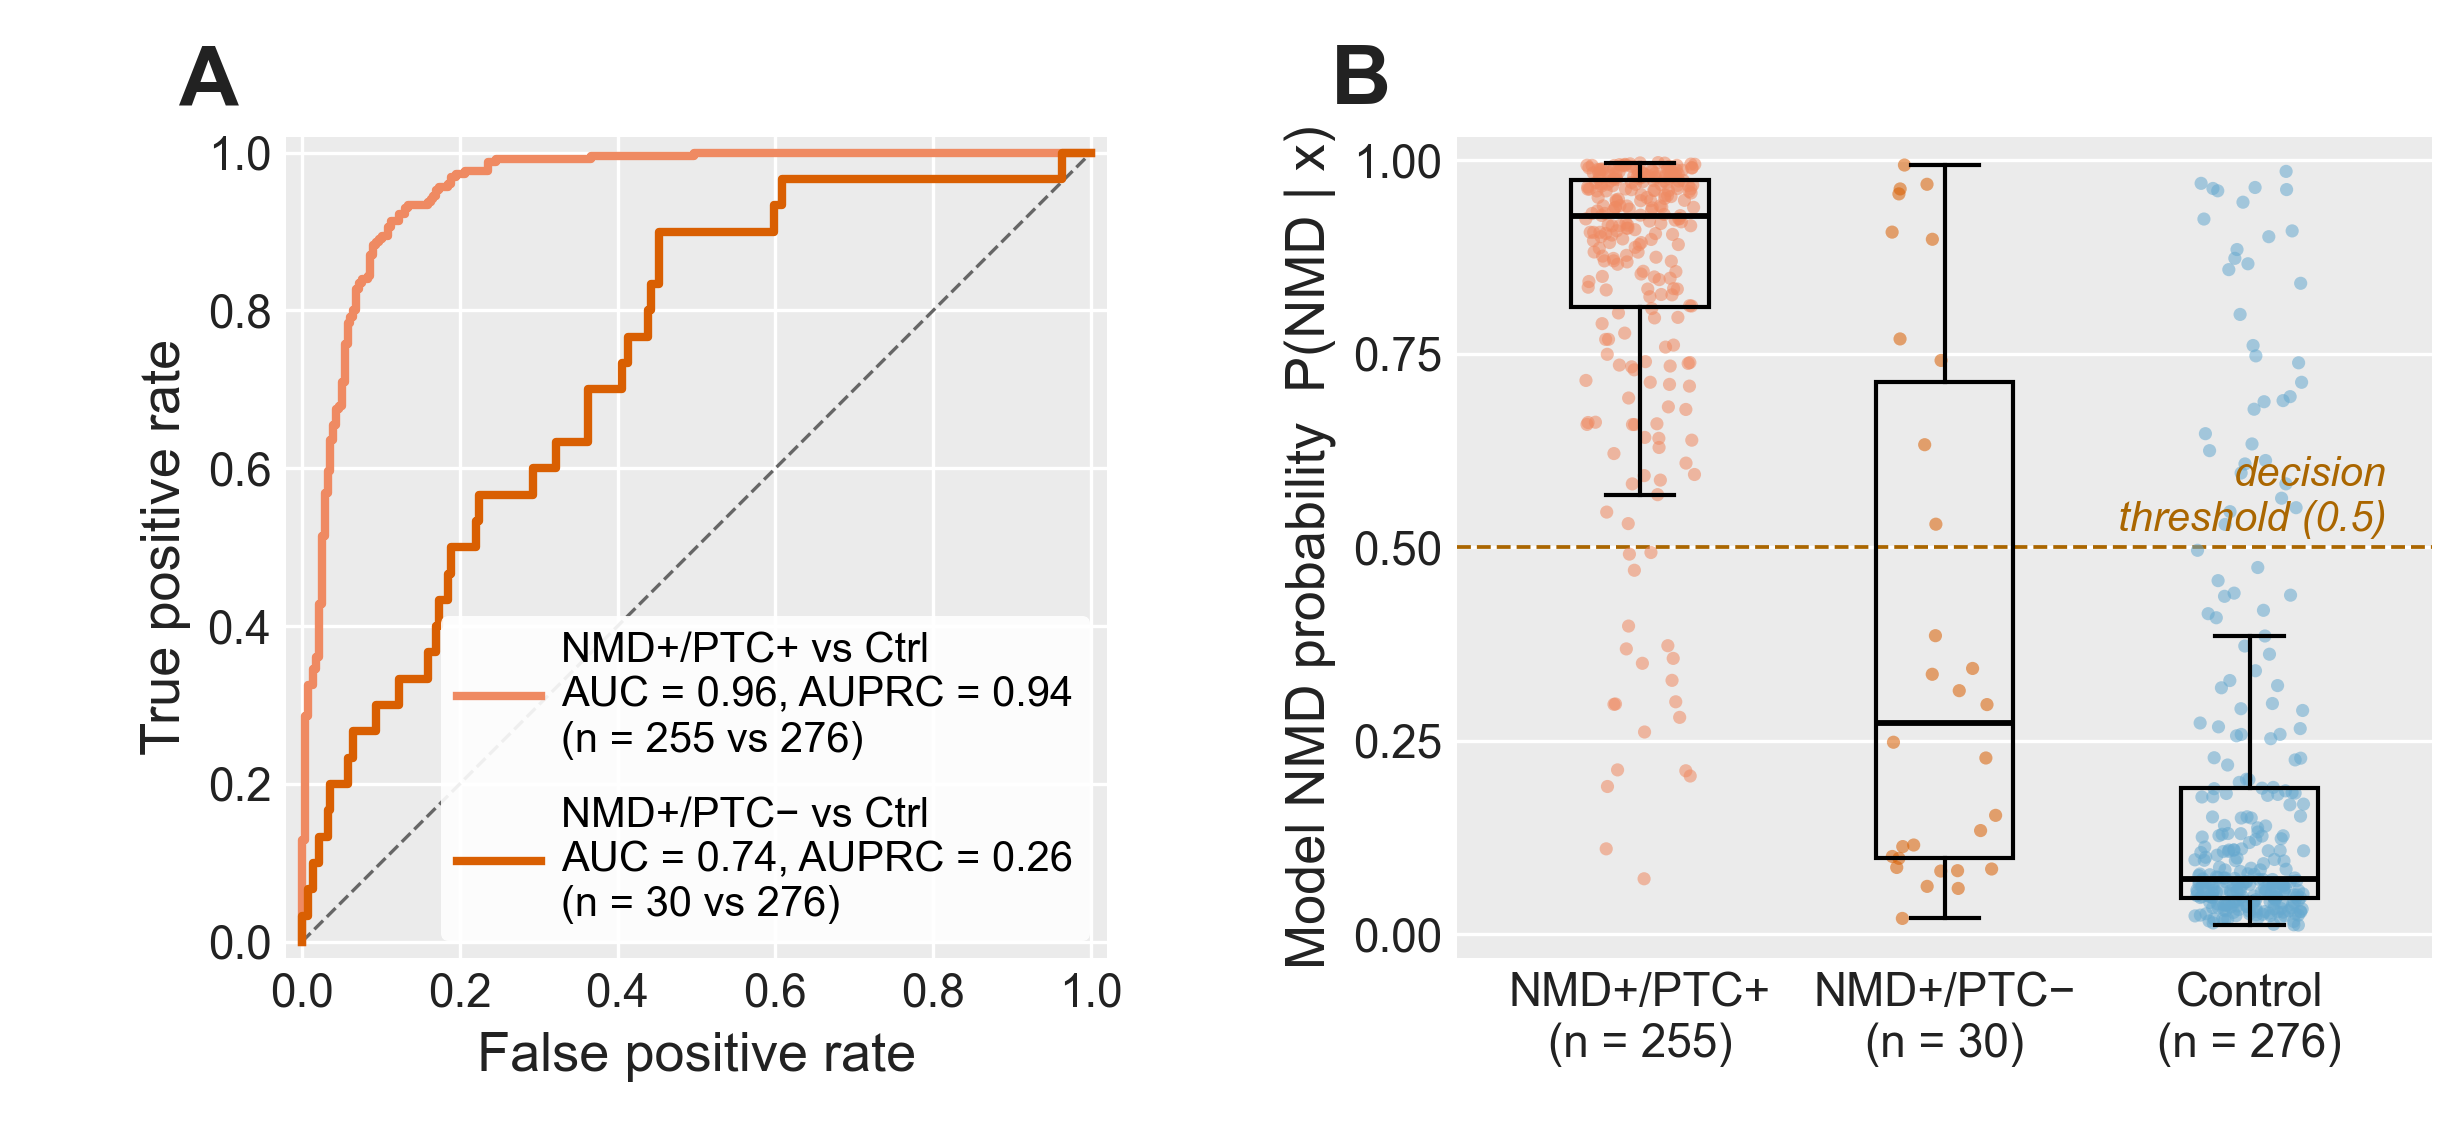
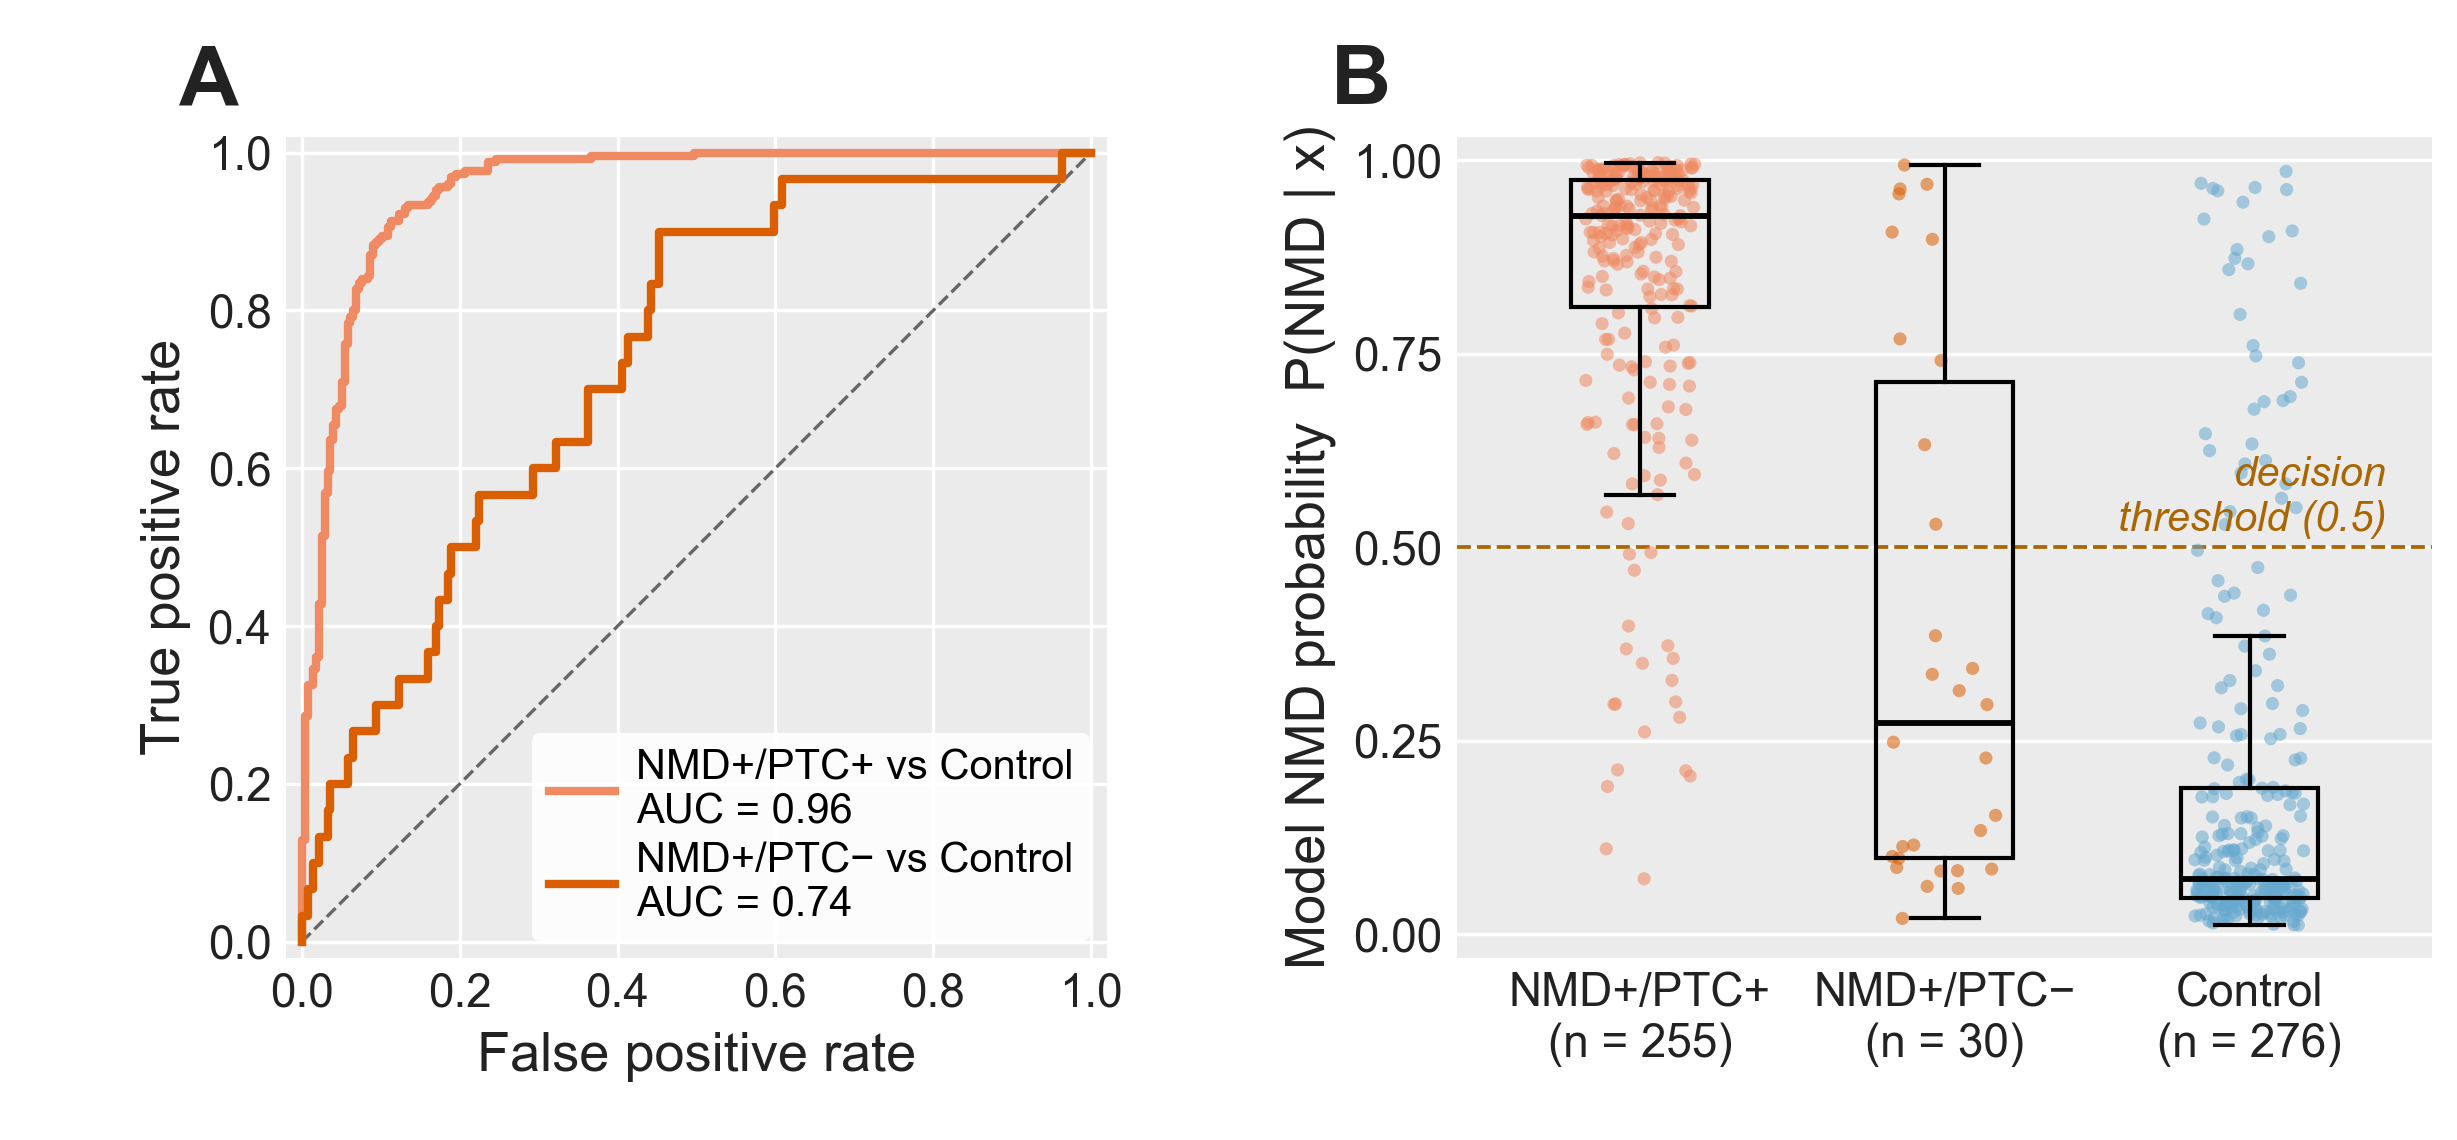
SF40: panel A ROC shows contrast + AUC only; concise legend, no AUPRC
- #9: drop AUPRC and n from panel A legend (contrast + AUC only); compact
      legend to clear the ROC curves
- #10 + D2: concise legend, AUPRC removed everywhere (panel, prose, abbrevs);
      counts verified against render (255/30/276)

Changed region(s): [[0.1856, 0.5526, 0.433, 0.8289]]

diff --git a/figures/SupplementalFigures/SF40_PTCSubclassPerformance/figure_s_performance_by_subclass.py b/figures/SupplementalFigures/SF40_PTCSubclassPerformance/figure_s_performance_by_subclass.py
@@ -12,7 +12,7 @@ Two panels at the held-out chr-1/3/5/7 paralog-free test split:
   (A) ROC curves for two contrasts:
         — NMD+/PTC+ retained  vs  Control
         — NMD+/PTC- retained  vs  Control
-      AUC and AUPRC annotated.
+      AUC annotated.
 
   (B) Per-isoform predicted NMD probability stratified by subclass
       (strip + boxplot overlay), with the 0.5 decision threshold marked.
@@ -102,12 +102,12 @@ def build_figure():
 
     # ── Panel A — ROC curves
     style_axes_ggplot(axA)
-    fpr1, tpr1, auc1, aupr1 = contrast_metrics(ptcp, ctrl)
-    fpr2, tpr2, auc2, aupr2 = contrast_metrics(ptcn, ctrl)
+    fpr1, tpr1, auc1, _ = contrast_metrics(ptcp, ctrl)
+    fpr2, tpr2, auc2, _ = contrast_metrics(ptcn, ctrl)
     axA.plot(fpr1, tpr1, color=GROUP_COLOR["NMD+/PTC+"], lw=2.0, zorder=4,
-             label=f"NMD+/PTC+ vs Ctrl\nAUC = {auc1:.2f}, AUPRC = {aupr1:.2f}\n(n = {len(ptcp)} vs {len(ctrl)})")
+             label=f"NMD+/PTC+ vs Control\nAUC = {auc1:.2f}")
     axA.plot(fpr2, tpr2, color=GROUP_COLOR["NMD+/PTC- retained"], lw=2.0, zorder=4,
-             label=f"NMD+/PTC− vs Ctrl\nAUC = {auc2:.2f}, AUPRC = {aupr2:.2f}\n(n = {len(ptcn)} vs {len(ctrl)})")
+             label=f"NMD+/PTC− vs Control\nAUC = {auc2:.2f}")
     axA.plot([0, 1], [0, 1], "--", color="#666666", lw=0.8, zorder=3)
     axA.set_xlim(-0.02, 1.02)
     axA.set_ylim(-0.02, 1.02)
@@ -118,8 +118,8 @@ def build_figure():
     # No subpanel title — caption identifies Panel A (Yul-style).
     axA.tick_params(axis="both", labelsize=BODY_FS - 2)
     axA.legend(loc="lower right", fontsize=BODY_FS - 3, frameon=True, framealpha=0.9,
-               facecolor="white", edgecolor="none", handlelength=2.0,
-               handletextpad=0.5, borderaxespad=0.4, labelspacing=0.9)
+               facecolor="white", edgecolor="none", handlelength=1.6,
+               handletextpad=0.5, borderaxespad=0.4, labelspacing=0.25)
     axA.set_aspect("equal")
 
     # ── Panel B — predicted probability per subgroup

diff --git a/figures/SupplementalFigures/SF40_PTCSubclassPerformance/figure_s_performance_by_subclass_legend.md b/figures/SupplementalFigures/SF40_PTCSubclassPerformance/figure_s_performance_by_subclass_legend.md
@@ -1,7 +1,1 @@
-**SF40 | Deep-Learning Model Discrimination by PTC Subclass on the Held-Out Test Set.** Held-out test-set performance of the trained NMD predictor, restricted to isoforms in the same 1,166 gene-matched pairs used by Figure 4 Panels C and D and Figure 5 Panel G, and stratified by the same three subclasses: NMD susceptible with a premature termination codon (NMD+/PTC+, n = 255), NMD susceptible without a premature termination codon (NMD+/PTC−, n = 30), and matched non-NMD Controls (n = 276). Subgroup sample sizes reflect held-out-test-set membership rather than the total subgroup.
-
-(A) Receiver-operating-characteristic curves for the two NMD-vs-Control contrasts, using the model's predicted NMD probability as the score. The NMD+/PTC+ vs Control contrast achieves AUC = 0.96 (AUPRC = 0.94). The NMD+/PTC− vs Control contrast achieves AUC = 0.74 (AUPRC = 0.26). Diagonal, chance. The substantial AUC drop indicates that NMD-susceptible isoforms without an annotated premature termination codon are intrinsically harder for the model to discriminate from non-NMD isoforms — consistent with the loss of structural and stop-window signal shown in SF39.
-
-(B) Distribution of the per-isoform predicted NMD probability by subclass. NMD+/PTC+ isoforms cluster at high probability (mean = 0.85), comfortably above the 0.5 decision threshold; non-NMD Controls cluster at low probability (mean = 0.19); NMD+/PTC− isoforms straddle the threshold (mean = 0.39), placing many of them on the Control side of the decision boundary. Boxplots show median, IQR, and 1.5×IQR whiskers; the dashed horizontal line marks the 0.5 default decision threshold.
-
-Abbreviations. AUC, area under the receiver-operating-characteristic curve; AUPRC, area under the precision–recall curve; NMD, nonsense-mediated decay; PTC, premature termination codon; IQR, interquartile range.
+**SF40 | Deep-Learning Model Discrimination by PTC Subclass on the Held-Out Test Set.** Held-out test-set performance of the trained NMD predictor, stratified by the three subclasses: NMD+/PTC+ (n = 255), NMD+/PTC− (n = 30), and Control (n = 276). Subgroup sample sizes reflect held-out-test-set membership. (A) ROC curves for the two NMD-vs-Control contrasts, using the model's predicted NMD probability as the score; AUC annotated per contrast; diagonal, chance. (B) Distribution of per-isoform predicted NMD probability by subclass. Abbreviations. AUC, area under the ROC curve; PTC, premature termination codon; ROC, receiver-operating-characteristic.
